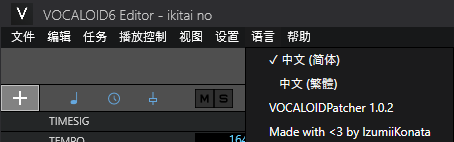
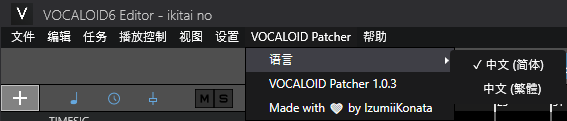
update README.MD

diff --git a/README.MD b/README.MD
@@ -9,7 +9,7 @@
 ## 使用方法
 前往 [Releases](https://github.com/IzumiiKonata/VOCALOIDPatcher/releases) 中下载最新发行版  
 将压缩包中的所有文件 _(除了 README.txt)_ 复制并替换到 `C:\Program Files\VOCALOID6\Editor` 中 (如果编辑器没有安装在默认目录中可能会有问题)  
-打开编辑器并打开一个工程, 如果菜单栏中出现 `语言` 选项则安装成功。  
+打开编辑器并打开一个工程, 如果菜单栏中出现 `VOCALOID Patcher` 选项则安装成功。  
 ![img](./res/screenshot.png)
 
 ## 调试